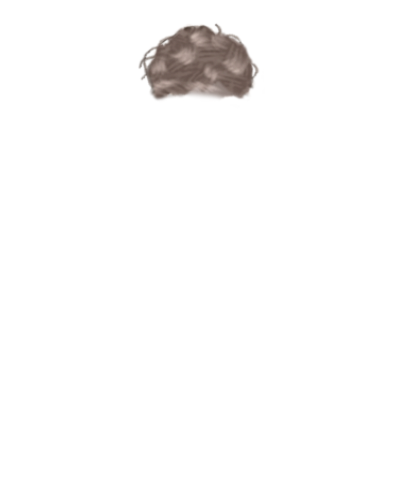
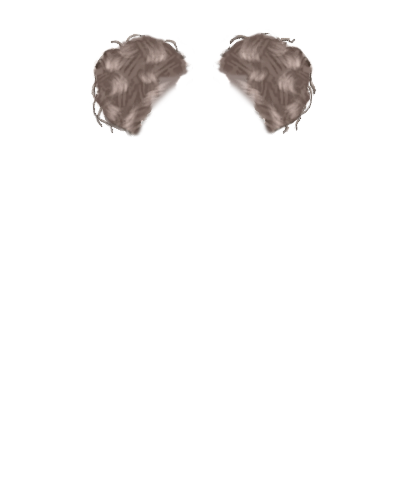
Cleaned up Merge, added Kyra's hairs back in

Changed region(s): [[0.21, 0.03, 0.81, 0.27]]

diff --git a/BondageClub/Assets/Female3DCG/Female3DCG.js b/BondageClub/Assets/Female3DCG/Female3DCG.js
@@ -2084,6 +2084,14 @@ var AssetFemale3DCG = [
 				{ Name: "BangsTip", Priority: 54},
 			],
 			Top: -200, Left: 0 },
+			{
+				Name: "HairFront28",
+				Layer: [
+					{ Name: "Base" },
+					{ Name: "Bangs", Priority: 54 },
+					{ Name: "Tips", Priority: 54 },
+				],
+			},
 		],
 		Color: ["#6a3628", "#202020", "#dcc787", "#6c2132", "#999999", "#dddddd", "#e781b1", "#81e7b1", "#81b1e7", "#eeee99", "#ee9999", "#ee99ee"]
 	},
@@ -2154,7 +2162,15 @@ var AssetFemale3DCG = [
 			{ Name: "HairBack49" },
 			{ Name: "HairBack50", AllowPose: ["Suspension", "Hogtied", "AllFours"] },
 			{ Name: "HairBack51" },
-			{ Name: "HairBack52" }
+			{ Name: "HairBack52" },
+			{ Name: "HairBack53",
+			Layer: [
+					{ Name: "Base" },
+					{ Name: "Tip" },
+			],
+			Top: -5, Left: 0 },
+			{ Name: "HairBack54" },
+			{ Name: "HairBack55" },
 		],
 		Color: ["Default", "#6a3628", "#202020", "#dcc787", "#6c2132", "#999999", "#dddddd", "#e781b1", "#81e7b1", "#81b1e7", "#eeee99", "#ee9999", "#ee99ee"],
 		InheritColor: "HairFront"
